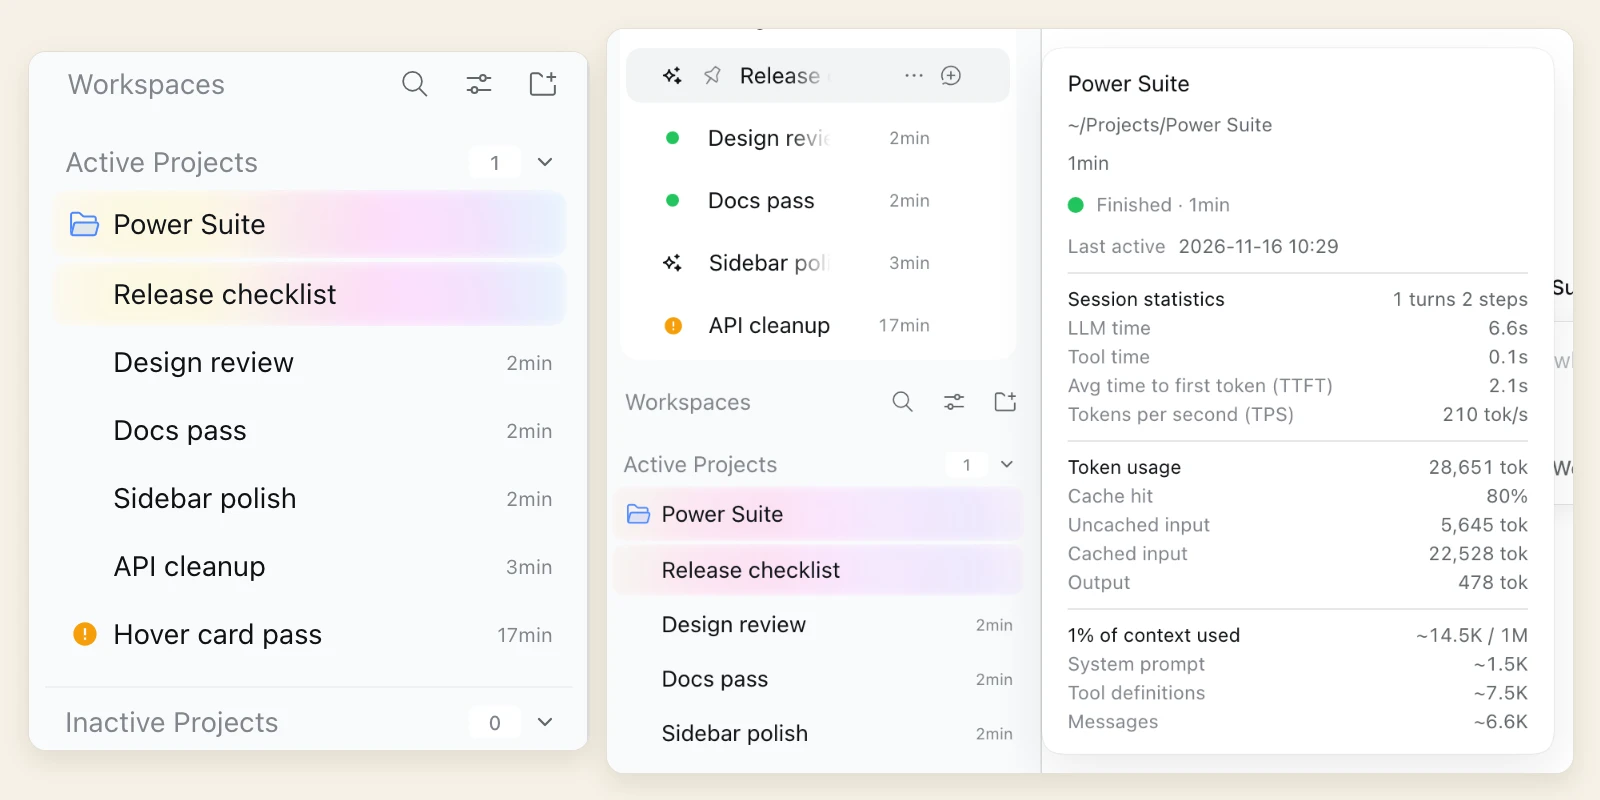
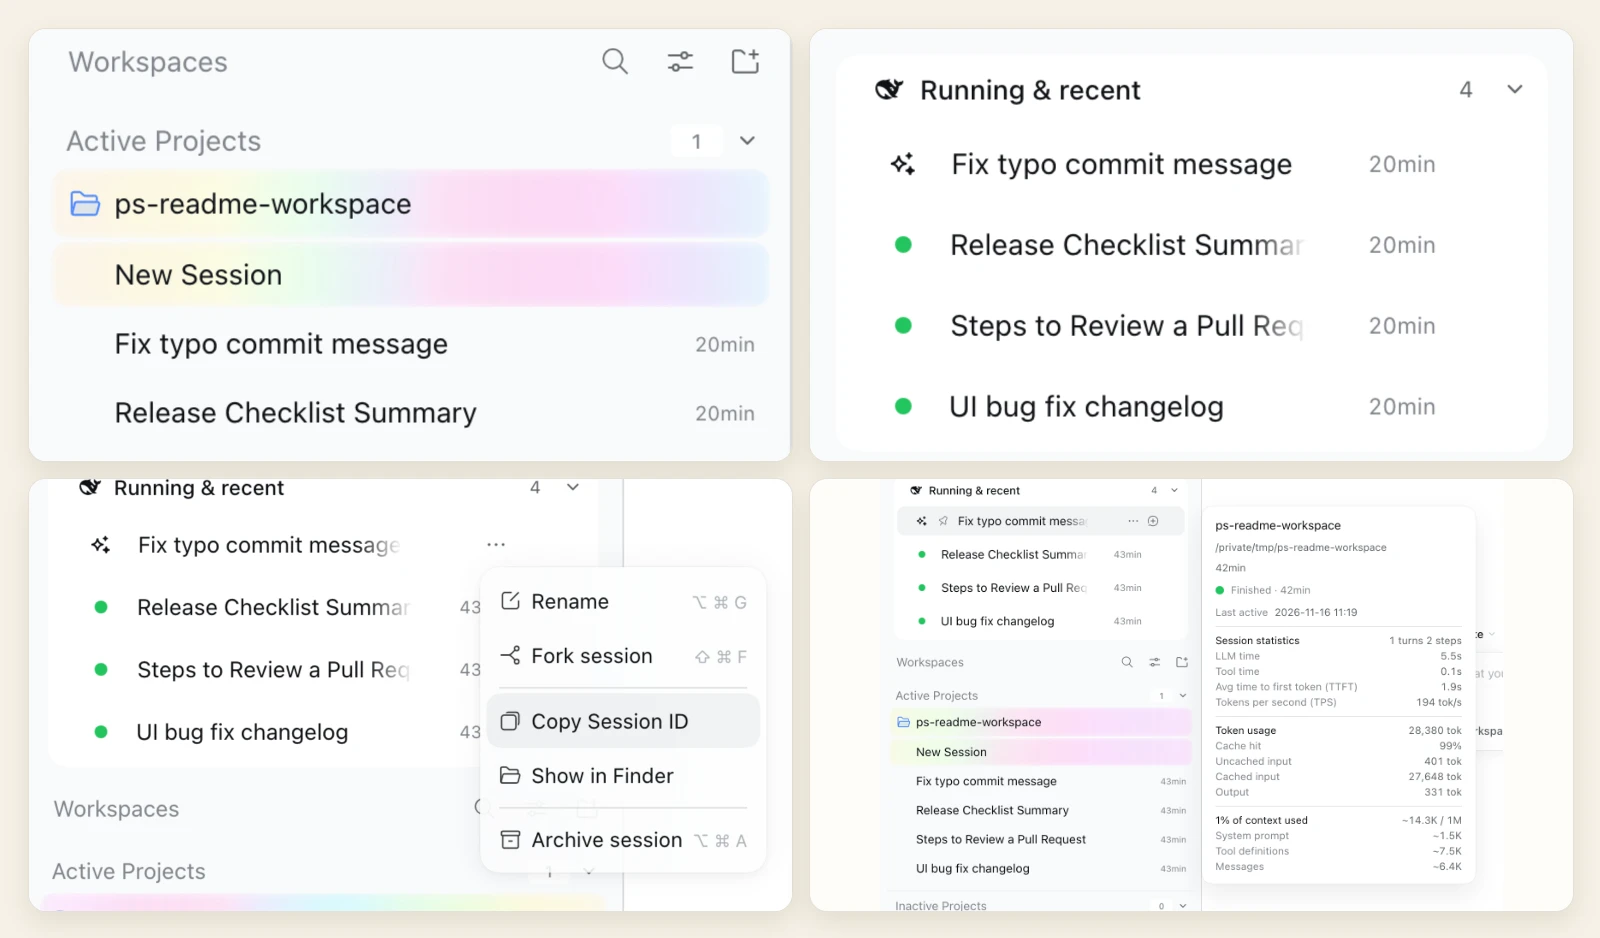
chore(readme): panel-focused overview + annotation Bento images
- overview is now a 2x2 grid (Workspaces, the Running & recent panel, native row
  menu, row hover card), so the plugin's running panel is actually visible;
- annotation image is the tall 1600x1128 capture of the Running & recent panel
  annotated with compact numbered marks and all three rail requirements;
- README alt text updated for both images; docs/verification.md records the new
  1600x938/1128 sizes, byte totals and the final annotation targets and
  requirement texts; docs/development.md documents the taller annotation
  viewport and popover padding.

diff --git a/docs/verification.md b/docs/verification.md
@@ -2779,19 +2779,19 @@ Measured with `sips -g pixelWidth -g pixelHeight` and `stat`:
 
 | Asset | Dimensions | Bytes | Sources (raw captures) |
 |---|---|---|---|
-| `assets/readme-overview.webp` | **1600×800** | 69,586 | `workspaces` + `card-hover` |
-| `assets/readme-artifacts.webp` | **1600×880** | 46,346 | `artifacts` (10 stubbed rows) + `artifacts-quicklook` + `artifacts-filter` |
-| `assets/readme-composer.webp` | **1600×611** | 60,876 | `composer-chat` + `settings` |
-| `assets/readme-annotation.webp` | **1600×860** | 90,076 | `annotation-annotated` (real answer, three annotations) |
+| `assets/readme-overview.webp` | **1600×938** | 84,046 | 2×2 grid: `workspaces`, `card` (Running & recent panel), `row-menu`, `card-hover` |
+| `assets/readme-artifacts.webp` | **1600×880** | 46,248 | `artifacts` (10 stubbed rows) + `artifacts-quicklook` + `artifacts-filter` |
+| `assets/readme-composer.webp` | **1600×611** | 60,874 | `composer-chat` + `settings` |
+| `assets/readme-annotation.webp` | **1600×1128** | 71,904 | `annotation-annotated` (real Running & recent panel annotated) |
 
-The four files total **266,884 bytes**; the composer verifies the fixed 1600 px
+The four files total **263,072 bytes**; the composer verifies the fixed 1600 px
 width and each group's fixed height and fails loudly on a missing source. The
 README alt text was checked against the composed images: overview = Workspaces
-browser + Running & recent card with a row hover card (statistics / token /
-context); artifacts = ten-row list + Quick Look + source filter; composer = a
-demo chat window with the release-checklist answer and composer beside the
-settings section; annotation = the real answer annotated with numbered marks
-and the rail requirement texts.
+browser, the Running & recent panel, the native row menu and a row hover card
+(statistics / token / context); artifacts = ten-row list + Quick Look + source
+filter; composer = a demo chat window with the release-checklist answer and
+composer beside the settings section; annotation = the Running & recent panel
+annotated with compact numbered marks and the rail requirement texts.
 
 ### Capture and composition commands (recorded runs)
 
@@ -2801,18 +2801,25 @@ and the rail requirement texts.
   and one practical tip.”; the user message appeared on attempt 1 (`Stop
   generating` submit state, draft cleared), the answer settled at 1322 transcript
   chars / 1 turn / 1 step / 161 tok/s. Raw captures: `composer-chat.png`
-  2920×1800 (open search card “release”, hover full-text preview),
-  `annotation-annotated.png` 3456×1800 (real answer marked #1 heading, #2
-  checklist step, #3 tip; rail requirements) and `annotation-inserted.png`
-  3456×1800 (“@ UI annotations × 3” grouped chip, never sent). The task Session
-  was archived through the native row “…” menu afterwards; **no injected-card or
-  travel fallback was used**.
+  2920×1800 (open search card “release”, hover full-text preview) and, after a
+  final annotation re-shoot at **1728×1200 CSS** (wider ~460 px sidebar,
+  `annotation-annotated.png` / `annotation-inserted.png` **3456×2400**), the
+  **Running & recent panel** annotated with three real records: panel header
+  (`.psd-panel-toggle`, “Running & recent 4”), a top recent row
+  (`button[aria-label^="Open "]`), and the panel disclosure chevron
+  (`.psd-panel-chevron`); requirement texts “Make this header collapse the whole
+  panel and keep the running count visible.”, “Show the elapsed time on the
+  right and keep the status dot for running rows.”, “Make this chevron collapse
+  the panel to just the header row.”; all three rail textareas are visible in
+  the capture. The task Session was archived through the native row “…” menu
+  afterwards; **no injected-card or travel fallback was used**.
 - `node test/browser/sidebar.e2e.mjs --readme-dashboard --url "$(cat /tmp/ps-readme-home-url.txt)"`
-  → **PASS 12 / SKIP 0 / FAIL 0**, 0 page errors, **40.0 s**, exit 0. Ten raws:
-  `workspaces` 560×698, `card` 544×510, `card-hover` 1208×930, `row-menu`
-  748×492, `interrupted-row` 528×116, `interrupted-composer` 1968×260,
-  `artifacts` 1554×1392 (10 rows), `artifacts-quicklook` 1188×768,
-  `artifacts-filter` 456×312, `settings` 1288×994. Light appearance forced via
+  → **PASS 12 / SKIP 0 / FAIL 0**, 0 page errors, **40.6 s**, exit 0. Ten raws
+  (after the final padding fixes): `workspaces` 752×630, `card` 736×432,
+  `card-hover` 1456×1010, `row-menu` 954×550, `interrupted-row` 720×116,
+  `interrupted-composer` 1858×260, `artifacts` 1554×1392 (10 rows),
+  `artifacts-quicklook` 1188×768, `artifacts-filter` 456×312, `settings`
+  1288×994. Light appearance forced via
   CDP; all sidebar/card/prompt text masked to allowlisted demo strings, the
   transcript hidden where it would enter a crop, and every capture's roots,
   clip region and page scanned for `/Users/`, the user name, URLs, `token=`, the

diff --git a/README.md b/README.md
@@ -30,7 +30,7 @@ dsh web
 
 The suite works inside the native shell instead of beside it: it augments the sidebar, the Files pane and the composer with Host-backed state, and adds one annotation surface that never covers the page. Unloading the plugin restores the native surface.
 
-![The Workspaces browser beside the Running & recent card, with a row hover card showing session statistics, token usage and context usage](assets/readme-overview.webp)
+![The Workspaces browser, the Running & recent panel, the native row menu and a row hover card with session statistics, token usage and context usage](assets/readme-overview.webp)
 
 *All screenshots come from a temporary, isolated DSH instance with demo Sessions and demo artifacts; no personal content is involved.*
 
@@ -71,7 +71,7 @@ Read more: [Prompt history](docs/prompt-history.md), [draft attachments](docs/dr
 
 A round launcher at the bottom-right of the page toggles a point-and-click annotation mode. The page makes room for a narrow right rail instead of being covered.
 
-![Annotating three elements of a real demo-session answer: numbered markers on the page and the annotation rail with the three requirement texts](assets/readme-annotation.webp)
+![Annotating the Running & recent panel in a demo DSH session: compact numbered markers on the panel header, a recent row and its disclosure chevron, with the annotation rail showing the three requirement texts](assets/readme-annotation.webp)
 
 - **Point at the element.** Hovering outlines the element a click would select, including floating surfaces such as native hover preview cards, which can be drilled into. The popover carries the locator summary, live status, parent/child adjustment and the requested change.
 - **The note stays with the page.** Each annotation becomes a persisted record with a page marker, a numbered requirement badge and a hover detail card; edit the requirement, relocate the target, copy the locator, or delete with a 5 s undo.

diff --git a/docs/development.md b/docs/development.md
@@ -85,12 +85,15 @@ load them.
 
    | Output | Group |
    |---|---|
-   | `assets/readme-overview.webp` | Workspaces browser + Running & recent card with row hover figures |
+   | `assets/readme-overview.webp` | 2×2 grid: Workspaces browser, the Running & recent panel, the native row menu and a row hover card |
    | `assets/readme-artifacts.webp` | Artifacts list (ten rows), Quick Look, source filter |
    | `assets/readme-composer.webp` | Main chat window (answer + composer + prompt rail) and the settings section |
-   | `assets/readme-annotation.webp` | Real demo answer annotated with numbered marks + rail requirement texts |
+   | `assets/readme-annotation.webp` | The Running & recent panel annotated in a demo session (compact marks + rail requirements; captured at 1728×1200 so the whole rail fits) |
 
-   After composing and reviewing the images, tear the isolated instance down
+   The annotation raws are captured at a taller 1728×1200 viewport so the
+   whole rail is visible, and the hover-card/row-menu poses get extra padding
+   so their popovers are never clipped. After composing and reviewing the
+   images, tear the isolated instance down
    (`pkill -f "dsh web --port 3199"`; remove `/tmp/ps-readme-home`,
    `/tmp/ps-readme-home-url.txt`) — nothing from the production GUI is touched.
 
